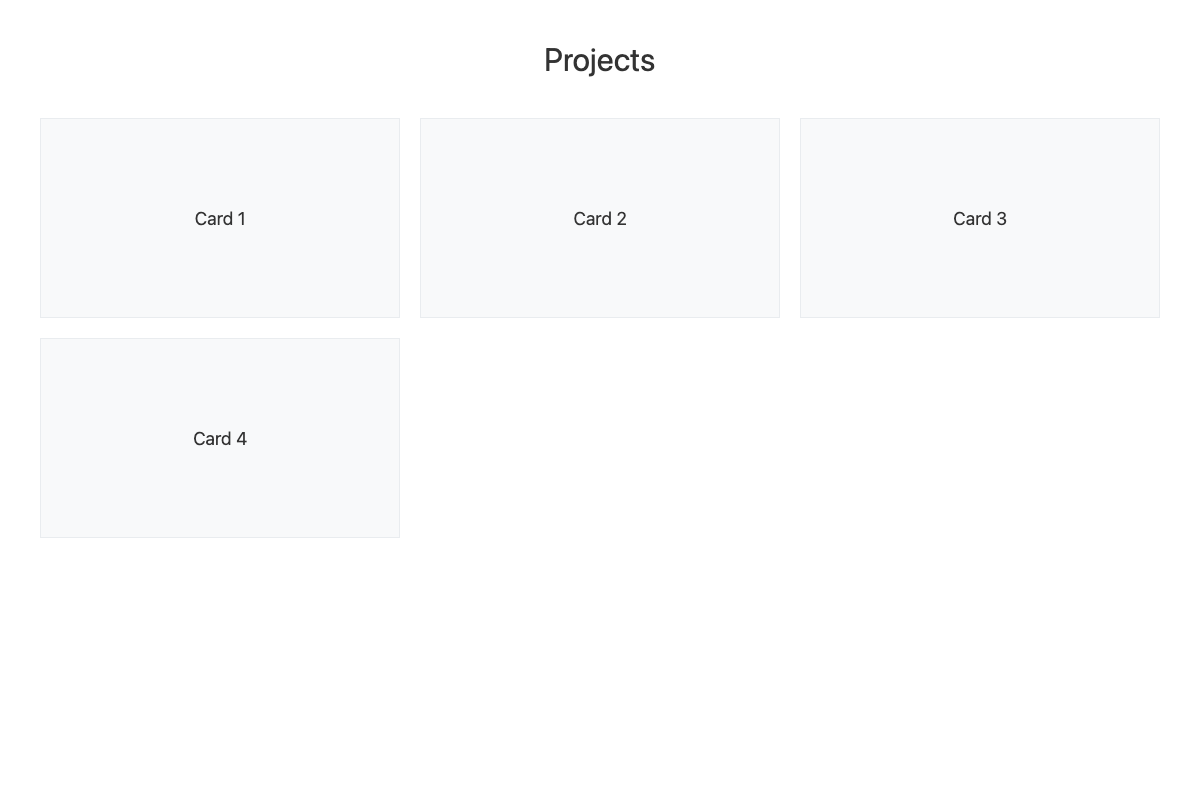
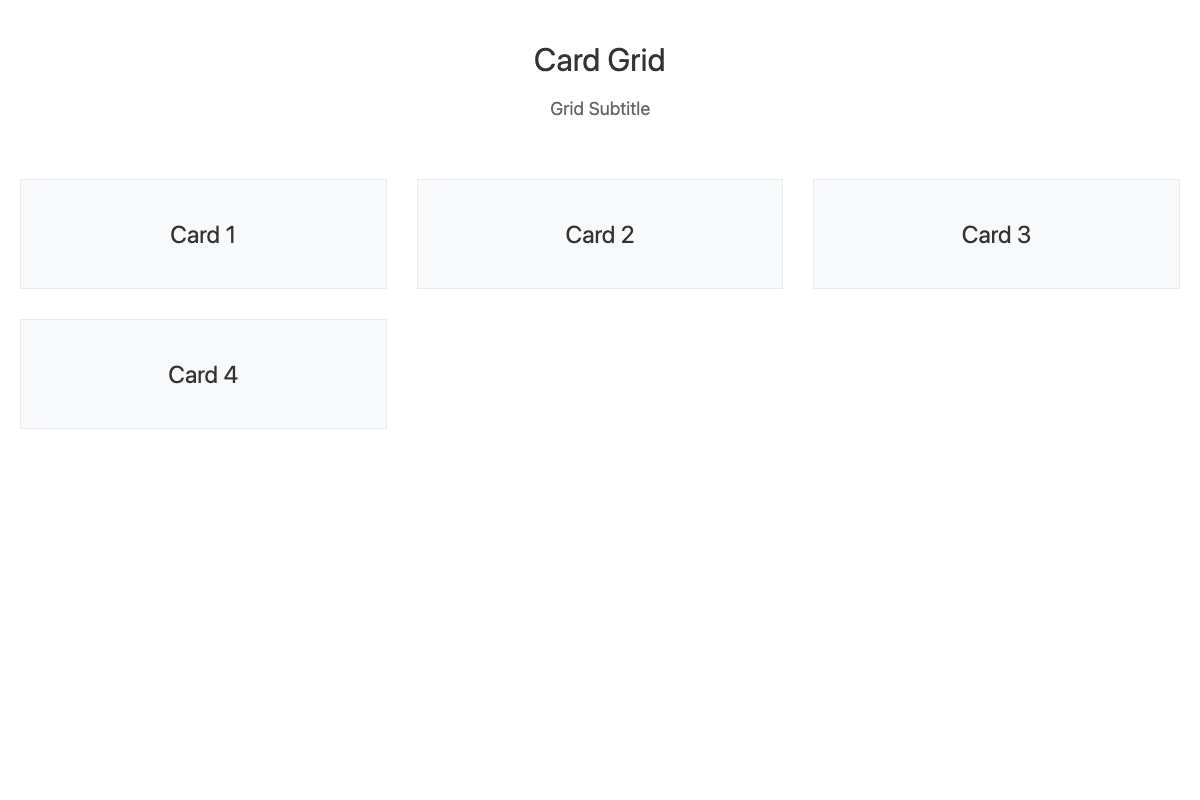
add more layouts

diff --git a/library/CardGrid/index.html b/library/CardGrid/index.html
@@ -14,60 +14,70 @@
 		body {
 			font-family: system-ui, sans-serif;
 			background: white;
-			padding: 40px;
+			padding: 40px 20px;
+		}
+
+		.container {
+			max-width: 1200px;
+			margin: 0 auto;
 		}
 
 		.header {
 			text-align: center;
-			margin-bottom: 40px;
-		}
-
-		.header h1 {
-			color: #333;
-			font-size: 32px;
-			font-weight: normal;
+			margin-bottom: 60px;
 		}
 
 		.grid {
 			display: grid;
 			grid-template-columns: repeat(auto-fit, minmax(300px, 1fr));
-			gap: 20px;
-			max-width: 1200px;
-			margin: 0 auto;
+			gap: 30px;
 		}
 
 		.card {
 			background: #f8f9fa;
 			border: 1px solid #e9ecef;
-			padding: 30px;
+			padding: 40px;
 			color: #333;
-			display: flex;
-			align-items: center;
-			justify-content: center;
-			min-height: 200px;
+			text-align: center;
+			font-size: 24px;
+		}
+
+		h1 {
+			color: #333;
+			font-size: 32px;
+			font-weight: normal;
+			margin-bottom: 20px;
+		}
+
+		.subtitle {
+			color: #666;
 			font-size: 18px;
 		}
 
 		@media (max-width: 768px) {
-			body {
-				padding: 20px;
-			}
-			
 			.grid {
 				grid-template-columns: 1fr;
+			}
+			
+			.card {
+				padding: 30px;
 			}
 		}
 	</style>
 </head>
 <body>
-	<div class="header">
-		<h1>Projects</h1>
-	</div>
-	<div class="grid">
-		<div class="card">Card 1</div>
-		<div class="card">Card 2</div>
-		<div class="card">Card 3</div>
-		<div class="card">Card 4</div>
+	<div class="container">
+		<header class="header">
+			<h1>Card Grid</h1>
+			<div class="subtitle">Grid Subtitle</div>
+		</header>
+		
+		<div class="grid">
+			<div class="card">Card 1</div>
+			<div class="card">Card 2</div>
+			<div class="card">Card 3</div>
+			<div class="card">Card 4</div>
+		</div>
 	</div>
 </body>
 </html>

diff --git a/scripts/generate-docs.js b/scripts/generate-docs.js
@@ -61,7 +61,7 @@ function createLibraryReadme(patterns) {
 
   return `# Layout Library
 
-A collection of responsive layout patterns and components.
+A collection of layout patterns and components.
 
 ## Available Layouts
 
@@ -129,7 +129,7 @@ async function main() {
   if (specificPattern) {
     if (patterns.includes(specificPattern)) {
       await processPattern(path.join(LIBRARY_DIR, specificPattern), force);
-      
+
       // Also regenerate library README when using force on specific pattern
       if (force) {
         console.log('\nUpdating library README...');

diff --git a/library/README.md b/library/README.md
@@ -6,8 +6,12 @@ A collection of layout patterns and components.
 
 | Layout | Preview |
 |--------|---------|
+| [CardGrid](CardGrid/) | <img src="CardGrid/screenshot.png" alt="CardGrid" height="300"> |
+| [CenteredArticle](CenteredArticle/) | <img src="CenteredArticle/screenshot.png" alt="CenteredArticle" height="300"> |
 | [FixedSidebar](FixedSidebar/) | <img src="FixedSidebar/screenshot.png" alt="FixedSidebar" height="300"> |
 | [HolyGrail](HolyGrail/) | <img src="HolyGrail/screenshot.png" alt="HolyGrail" height="300"> |
+| [SimpleStack](SimpleStack/) | <img src="SimpleStack/screenshot.png" alt="SimpleStack" height="300"> |
+| [SplitScreen](SplitScreen/) | <img src="SplitScreen/screenshot.png" alt="SplitScreen" height="300"> |
 
 ## Usage
 
